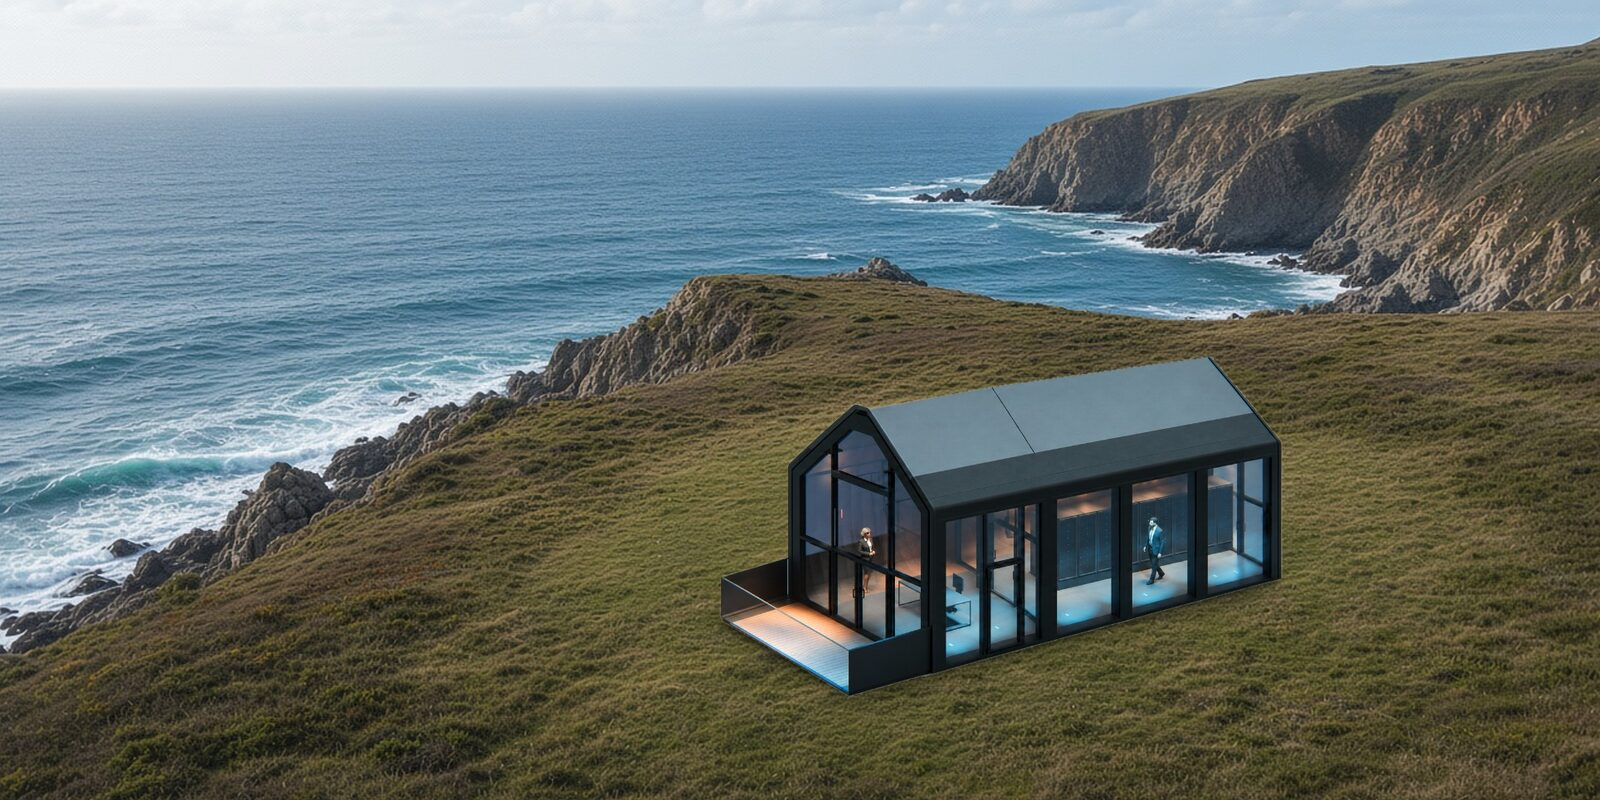
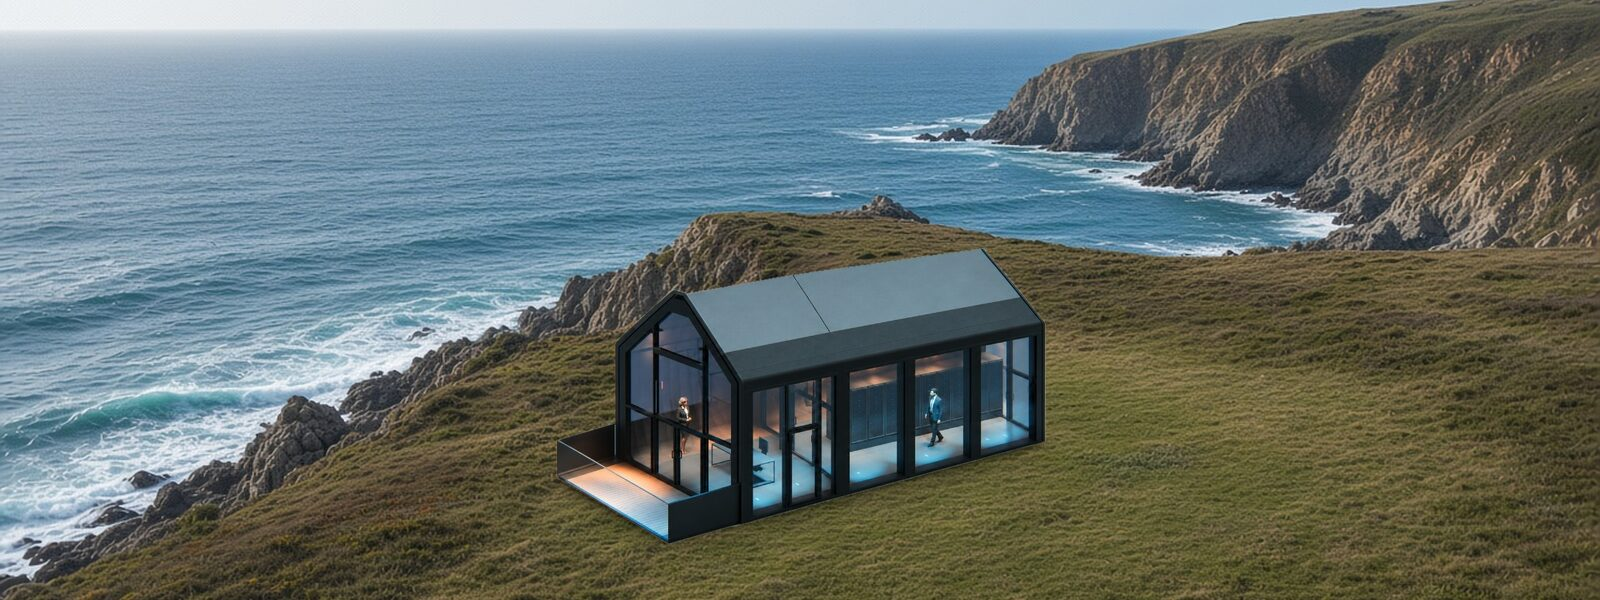
feat(future-home): center the footer ZODE and shorten the photo band to 8:3

diff --git a/src/app/future-home/footer/FooterScene.module.css b/src/app/future-home/footer/FooterScene.module.css
@@ -1,12 +1,12 @@
 /*
  * Photo band at the very bottom of the page (see FooterScene.tsx). The photos
- * are 2:1 with the ZODE's footprint centred at 62.5% / 75%; using that same
+ * are 8:3 with the ZODE's footprint centred at 50% / 77%; using that same
  * point as `object-position` keeps the ZODE in frame however the card crops.
  */
 .root {
   position: relative;
-  aspect-ratio: 2 / 1;
-  min-height: 260px;
+  aspect-ratio: 8 / 3;
+  min-height: 220px;
   overflow: hidden;
   border-radius: 10px;
   background: #0c0c0d;
@@ -19,7 +19,7 @@
 .image {
   z-index: 0;
   object-fit: cover;
-  object-position: 62.5% 75%;
+  object-position: 50% 77%;
   opacity: 0;
   transition: opacity 900ms ease;
 }
